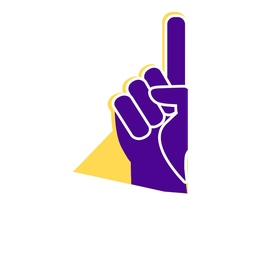
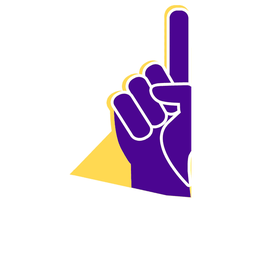
Make the brand mark a disc
Inset, not cropped. A circle cut straight out of the square would slice
the mark's yellow field at four points, which reads as damage rather
than as a round logo. object-fit:contain scales the whole artwork into
the disc instead, so the circle is made of white space and nothing is
lost.

The mark itself was regenerated without the 6% of air it carried. That
padding made sense on a bare square; inside a disc the white ring
already supplies the breathing room, and keeping both left the fist
looking small in its own badge. The fist now fills the square, and the
CSS padding came down from 3px to 1px for the same reason.

Claude-Session: https://claude.ai/code/session_01YVSapcn4KCjeGHvB7jyaV6

Changed region(s): [[0.2812, 0.0, 0.75, 0.7812], [0.4688, 0.5625, 0.5, 0.625], [0.5, 0.625, 0.5312, 0.6562]]

diff --git a/public/css/app.css b/public/css/app.css
@@ -940,7 +940,15 @@ body{ background:var(--bg); color:var(--text); }
    No background and no tint: a municipal mark is not a theme token. */
 .lms-brand .brand-mark{
   width:34px; height:34px; flex-shrink:0; display:block;
-  object-fit:contain;
+  /* A disc, not a clipped square. The mark's yellow field runs to the
+     corners of its own artwork, so cropping a circle straight out of it
+     would slice that field at four points and read as damage. Instead the
+     fist is inset on a white disc: object-fit:contain scales the whole
+     artwork into the padded box, so nothing is cut and the circle is made
+     of white space rather than of a crop. */
+  border-radius:50%; background:#fff; padding:1px;
+  box-sizing:border-box; object-fit:contain;
+  border:1px solid var(--side-hair);
 }
 .lms-brand .seal{
   width:30px; height:30px; border-radius:.5rem; font-size:.95rem;

diff --git a/tests/Feature/BrandMarkTest.php b/tests/Feature/BrandMarkTest.php
@@ -81,6 +81,25 @@ class BrandMarkTest extends TestCase
     }
 
     /**
+     * The mark is a disc, and the artwork is inset rather than cropped.
+     *
+     * A circle cut straight out of the square would slice the yellow field at
+     * four points and read as damage. object-fit:contain scales the whole
+     * artwork into the disc instead, so the circle is made of white space.
+     */
+    public function test_the_mark_is_a_disc_that_does_not_cut_the_artwork(): void
+    {
+        $css = file_get_contents(public_path('css/app.css'));
+        preg_match('/\.lms-brand \.brand-mark\{(.*?)\}/s', $css, $m);
+
+        $this->assertNotEmpty($m, 'the brand mark has no rule of its own');
+        $this->assertStringContainsString('border-radius:50%', $m[1]);
+        $this->assertStringContainsString('object-fit:contain', $m[1],
+            'the artwork is being cropped to the circle rather than fitted inside it');
+        $this->assertStringNotContainsString('object-fit:cover', $m[1]);
+    }
+
+    /**
      * The short-viewport rule shrinks the mark, not the element it replaced.
      *
      * That block compressed `.seal`, which is gone from the brand row; without
